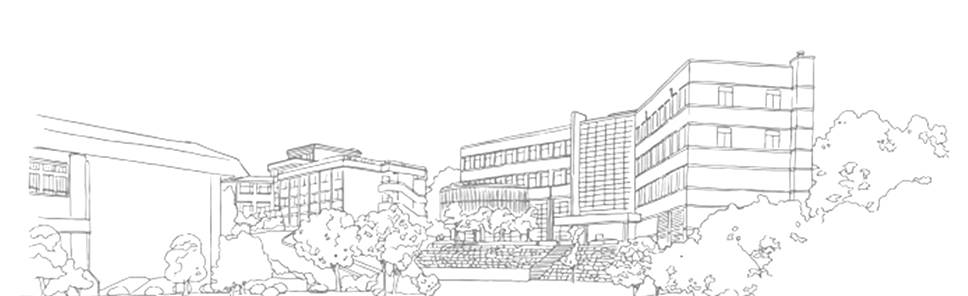
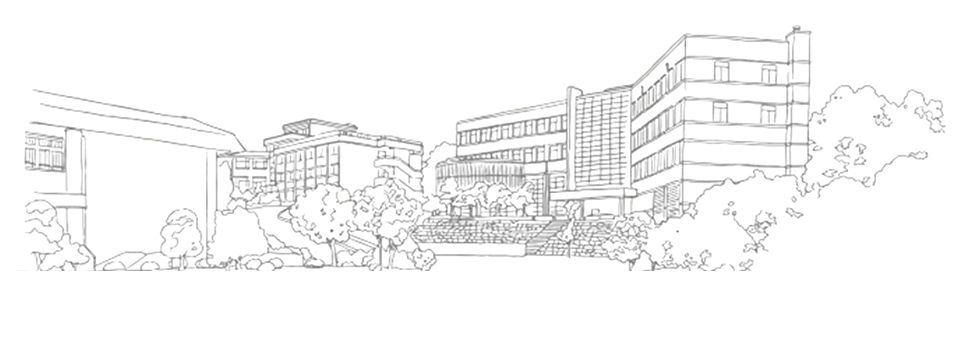
joinStep.jsp 디자인 완료

Changed region(s): [[0.0, 0.0608, 0.9917, 1.0], [0.9298, 0.5777, 0.9607, 0.6385], [0.031, 0.2432, 0.062, 0.2736]]

diff --git a/src/main/webapp/css/login.css b/src/main/webapp/css/login.css
@@ -3,10 +3,9 @@ body {
 	font-family: 'Roboto', helvetica, arial, sans-serif;
 	background-image: url("../images/back.jpg");
 	background-repeat: no-repeat;
-	background-position: bottom;
-	background-size: 100% 50%;
-	margin: auto;
-	margin-bottom: -5%;
+	background-size: 100% 60%;
+	background-position: bottom center;
+
 }
 
 .wrapper{

diff --git a/src/main/webapp/css/commons.css b/src/main/webapp/css/commons.css
@@ -3,7 +3,7 @@
 	height: 80px;
 	clear: both;
 	position: center;
-	margin: 0 auto;
+	margin-top: 8%;
 }
 
 

diff --git a/src/main/webapp/css/join.css b/src/main/webapp/css/join.css
@@ -1,0 +1,4 @@
+
+img{
+	max-width: 100%;
+}
